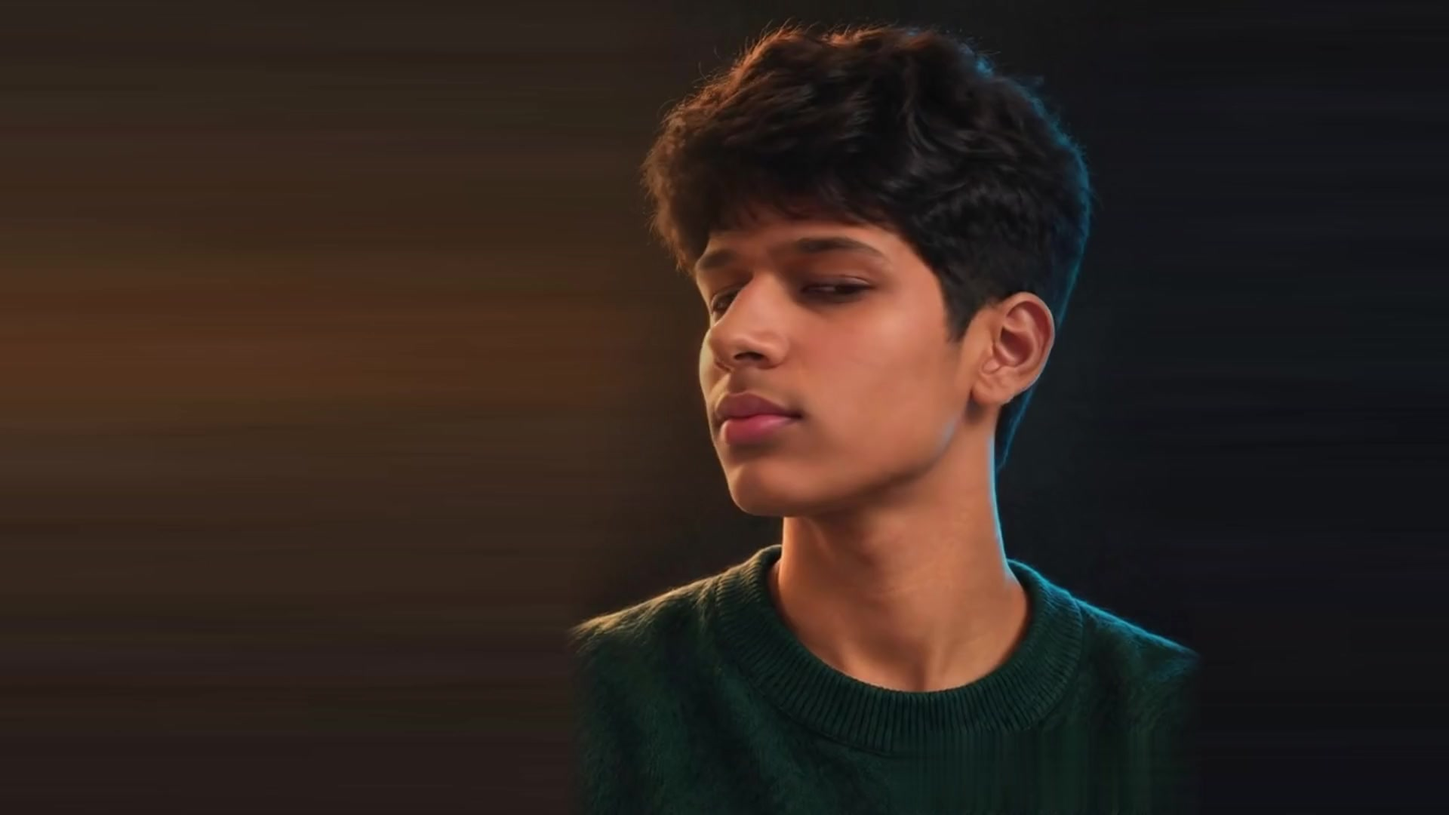
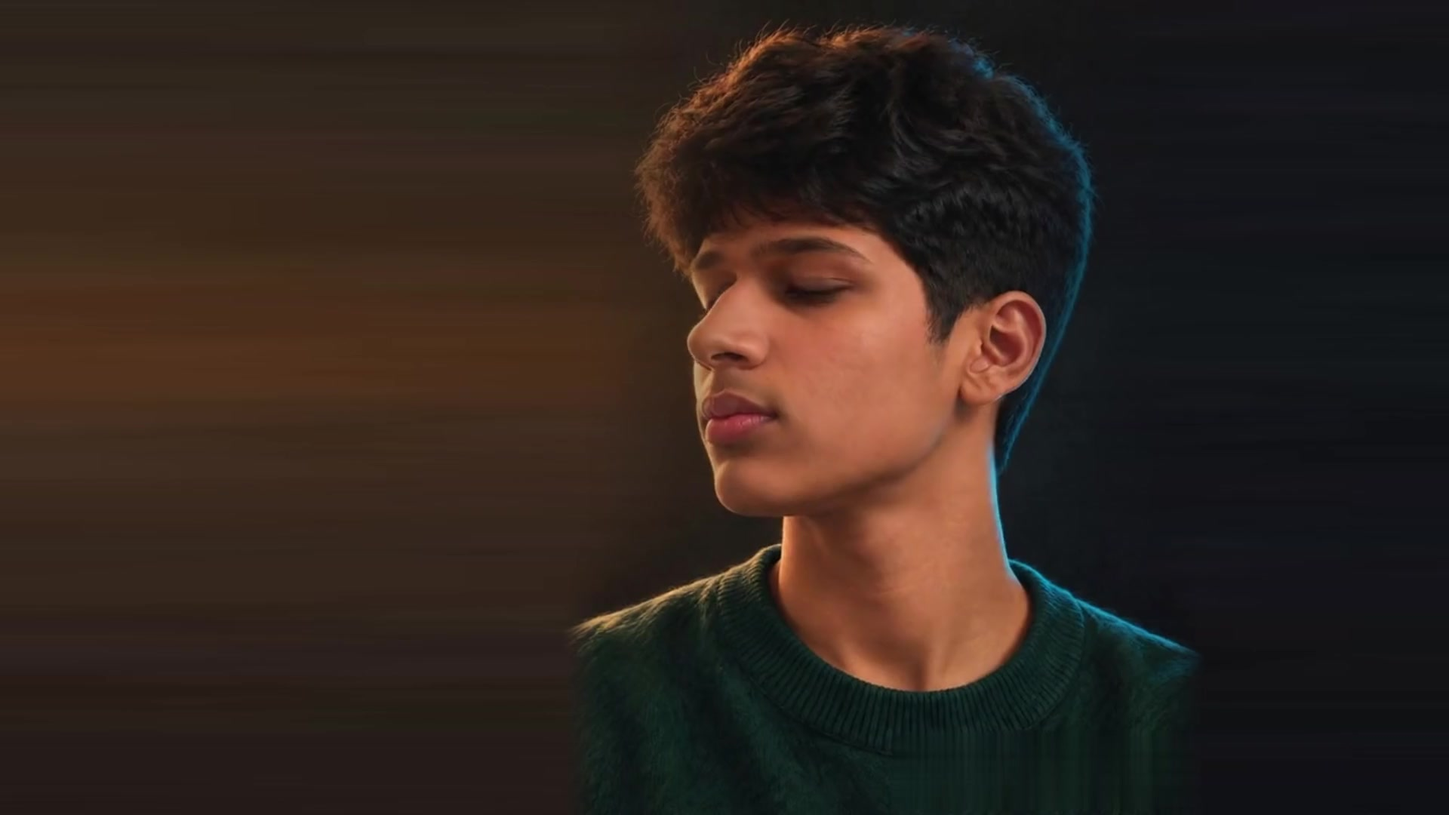
V22.3: toggle right of CONTACT (button pinned in original spot), darker-bluer skills island in dark mode, whole skill row toggles expander, 38-frame hero (every source frame) for sharper motion

diff --git a/index.html b/index.html
@@ -18,7 +18,7 @@
   <link rel="preconnect" href="https://fonts.googleapis.com">
   <link rel="preconnect" href="https://fonts.gstatic.com" crossorigin>
   <link href="https://fonts.googleapis.com/css2?family=Archivo+Black&family=IBM+Plex+Mono:wght@400;500&family=Inter:wght@400;500&display=swap" rel="stylesheet">
-  <link rel="stylesheet" href="style.css?v=22.2">
+  <link rel="stylesheet" href="style.css?v=22.3">
 
   <!-- Tailwind Play CDN, pinned 3.4.16 (Prompt 27): compiles the utility
        classes in the browser at runtime, so this page needs internet for
@@ -111,13 +111,14 @@
         <li><a href="#contact" class="navbar__link font-mono text-[0.6875rem] font-medium tracking-[0.1em] uppercase text-muted py-[0.3em] px-[0.5em] transition-colors duration-150 ease-[cubic-bezier(0.16,1,0.3,1)] hover:text-ink focus-visible:text-ink focus-visible:outline-none">Contact</a></li>
       </ul>
       <div class="navbar__actions flex items-center gap-2">
+
+
+        <a href="index.html#contact" class="btn btn--outline navbar__cta hidden md:inline-flex">Contact</a>
+
         <button type="button" id="theme-toggle" class="theme-toggle" aria-label="Switch to light mode" aria-pressed="true">
           <svg class="theme-toggle__icon theme-toggle__sun" viewBox="0 0 24 24" fill="none" stroke="currentColor" stroke-width="1.5" stroke-linecap="round" aria-hidden="true"><circle cx="12" cy="12" r="4"/><path d="M12 2v2M12 20v2M4.93 4.93l1.41 1.41M17.66 17.66l1.41 1.41M2 12h2M20 12h2M4.93 19.07l1.41-1.41M17.66 6.34l1.41-1.41"/></svg>
           <svg class="theme-toggle__icon theme-toggle__moon" viewBox="0 0 24 24" fill="none" stroke="currentColor" stroke-width="1.5" stroke-linecap="round" stroke-linejoin="round" aria-hidden="true"><path d="M21 12.79A9 9 0 1 1 11.21 3 7 7 0 0 0 21 12.79z"/></svg>
         </button>
-
-
-        <a href="index.html#contact" class="btn btn--outline navbar__cta hidden md:inline-flex">Contact</a>
       </div>
     </nav>
   </header>
@@ -134,7 +135,7 @@
          <picture> picks the set: wide screens (min-aspect-ratio 1/1) download
          only the 16:9 landscape set (face right of centre, headline over the
          dark left half); phones and portrait tablets download only the 4:5 set. -->
-    <section class="hero-stage" id="hero" aria-labelledby="hero-heading" style="--frame-count: 30">
+    <section class="hero-stage" id="hero" aria-labelledby="hero-heading" style="--frame-count: 38">
       <!-- FACE-CLIP ACTIVE: script.js swaps the 12-frame stack for the
            scroll-scrubbed AI clip (assets/video/face-turn.mp4). The frames
            stay in the DOM as the no-JS / reduced-motion / pre-load fallback. -->
@@ -144,94 +145,118 @@
              --frame-count; the CSS slices the scroll range from those two. -->
         <div class="hero-bg">
           <picture class="portrait-frame portrait-frame--first" style="--i: 1">
-            <img src="assets/frames/frame01.jpg?v=22.2" alt="" aria-hidden="true" width="1920" height="1080" fetchpriority="high">
+            <img src="assets/frames/frame01.jpg?v=22.3" alt="" aria-hidden="true" width="1920" height="1080" fetchpriority="high">
           </picture>
           <picture class="portrait-frame" style="--i: 2">
-            <img src="assets/frames/frame02.jpg?v=22.2" alt="" aria-hidden="true" width="1920" height="1080" decoding="async">
+            <img src="assets/frames/frame02.jpg?v=22.3" alt="" aria-hidden="true" width="1920" height="1080" decoding="async">
           </picture>
           <picture class="portrait-frame" style="--i: 3">
-            <img src="assets/frames/frame03.jpg?v=22.2" alt="" aria-hidden="true" width="1920" height="1080" decoding="async">
+            <img src="assets/frames/frame03.jpg?v=22.3" alt="" aria-hidden="true" width="1920" height="1080" decoding="async">
           </picture>
           <picture class="portrait-frame" style="--i: 4">
-            <img src="assets/frames/frame04.jpg?v=22.2" alt="" aria-hidden="true" width="1920" height="1080" decoding="async">
+            <img src="assets/frames/frame04.jpg?v=22.3" alt="" aria-hidden="true" width="1920" height="1080" decoding="async">
           </picture>
           <picture class="portrait-frame" style="--i: 5">
-            <img src="assets/frames/frame05.jpg?v=22.2" alt="" aria-hidden="true" width="1920" height="1080" decoding="async">
+            <img src="assets/frames/frame05.jpg?v=22.3" alt="" aria-hidden="true" width="1920" height="1080" decoding="async">
           </picture>
           <picture class="portrait-frame" style="--i: 6">
-            <img src="assets/frames/frame06.jpg?v=22.2" alt="" aria-hidden="true" width="1920" height="1080" decoding="async">
+            <img src="assets/frames/frame06.jpg?v=22.3" alt="" aria-hidden="true" width="1920" height="1080" decoding="async">
           </picture>
           <picture class="portrait-frame" style="--i: 7">
-            <img src="assets/frames/frame07.jpg?v=22.2" alt="" aria-hidden="true" width="1920" height="1080" decoding="async">
+            <img src="assets/frames/frame07.jpg?v=22.3" alt="" aria-hidden="true" width="1920" height="1080" decoding="async">
           </picture>
           <picture class="portrait-frame" style="--i: 8">
-            <img src="assets/frames/frame08.jpg?v=22.2" alt="" aria-hidden="true" width="1920" height="1080" decoding="async">
+            <img src="assets/frames/frame08.jpg?v=22.3" alt="" aria-hidden="true" width="1920" height="1080" decoding="async">
           </picture>
           <picture class="portrait-frame" style="--i: 9">
-            <img src="assets/frames/frame09.jpg?v=22.2" alt="" aria-hidden="true" width="1920" height="1080" decoding="async">
+            <img src="assets/frames/frame09.jpg?v=22.3" alt="" aria-hidden="true" width="1920" height="1080" decoding="async">
           </picture>
           <picture class="portrait-frame" style="--i: 10">
-            <img src="assets/frames/frame10.jpg?v=22.2" alt="" aria-hidden="true" width="1920" height="1080" decoding="async">
+            <img src="assets/frames/frame10.jpg?v=22.3" alt="" aria-hidden="true" width="1920" height="1080" decoding="async">
           </picture>
           <picture class="portrait-frame" style="--i: 11">
-            <img src="assets/frames/frame11.jpg?v=22.2" alt="" aria-hidden="true" width="1920" height="1080" decoding="async">
+            <img src="assets/frames/frame11.jpg?v=22.3" alt="" aria-hidden="true" width="1920" height="1080" decoding="async">
           </picture>
           <picture class="portrait-frame" style="--i: 12">
-            <img src="assets/frames/frame12.jpg?v=22.2" alt="" aria-hidden="true" width="1920" height="1080" decoding="async">
+            <img src="assets/frames/frame12.jpg?v=22.3" alt="" aria-hidden="true" width="1920" height="1080" decoding="async">
           </picture>
           <picture class="portrait-frame" style="--i: 13">
-            <img src="assets/frames/frame13.jpg?v=22.2" alt="" aria-hidden="true" width="1920" height="1080" decoding="async">
+            <img src="assets/frames/frame13.jpg?v=22.3" alt="" aria-hidden="true" width="1920" height="1080" decoding="async">
           </picture>
           <picture class="portrait-frame" style="--i: 14">
-            <img src="assets/frames/frame14.jpg?v=22.2" alt="" aria-hidden="true" width="1920" height="1080" decoding="async">
+            <img src="assets/frames/frame14.jpg?v=22.3" alt="" aria-hidden="true" width="1920" height="1080" decoding="async">
           </picture>
           <picture class="portrait-frame" style="--i: 15">
-            <img src="assets/frames/frame15.jpg?v=22.2" alt="" aria-hidden="true" width="1920" height="1080" decoding="async">
+            <img src="assets/frames/frame15.jpg?v=22.3" alt="" aria-hidden="true" width="1920" height="1080" decoding="async">
           </picture>
           <picture class="portrait-frame" style="--i: 16">
-            <img src="assets/frames/frame16.jpg?v=22.2" alt="" aria-hidden="true" width="1920" height="1080" decoding="async">
+            <img src="assets/frames/frame16.jpg?v=22.3" alt="" aria-hidden="true" width="1920" height="1080" decoding="async">
           </picture>
           <picture class="portrait-frame" style="--i: 17">
-            <img src="assets/frames/frame17.jpg?v=22.2" alt="" aria-hidden="true" width="1920" height="1080" decoding="async">
+            <img src="assets/frames/frame17.jpg?v=22.3" alt="" aria-hidden="true" width="1920" height="1080" decoding="async">
           </picture>
           <picture class="portrait-frame" style="--i: 18">
-            <img src="assets/frames/frame18.jpg?v=22.2" alt="" aria-hidden="true" width="1920" height="1080" decoding="async">
+            <img src="assets/frames/frame18.jpg?v=22.3" alt="" aria-hidden="true" width="1920" height="1080" decoding="async">
           </picture>
           <picture class="portrait-frame" style="--i: 19">
-            <img src="assets/frames/frame19.jpg?v=22.2" alt="" aria-hidden="true" width="1920" height="1080" decoding="async">
+            <img src="assets/frames/frame19.jpg?v=22.3" alt="" aria-hidden="true" width="1920" height="1080" decoding="async">
           </picture>
           <picture class="portrait-frame" style="--i: 20">
-            <img src="assets/frames/frame20.jpg?v=22.2" alt="" aria-hidden="true" width="1920" height="1080" decoding="async">
+            <img src="assets/frames/frame20.jpg?v=22.3" alt="" aria-hidden="true" width="1920" height="1080" decoding="async">
           </picture>
           <picture class="portrait-frame" style="--i: 21">
-            <img src="assets/frames/frame21.jpg?v=22.2" alt="" aria-hidden="true" width="1920" height="1080" decoding="async">
+            <img src="assets/frames/frame21.jpg?v=22.3" alt="" aria-hidden="true" width="1920" height="1080" decoding="async">
           </picture>
           <picture class="portrait-frame" style="--i: 22">
-            <img src="assets/frames/frame22.jpg?v=22.2" alt="" aria-hidden="true" width="1920" height="1080" decoding="async">
+            <img src="assets/frames/frame22.jpg?v=22.3" alt="" aria-hidden="true" width="1920" height="1080" decoding="async">
           </picture>
           <picture class="portrait-frame" style="--i: 23">
-            <img src="assets/frames/frame23.jpg?v=22.2" alt="" aria-hidden="true" width="1920" height="1080" decoding="async">
+            <img src="assets/frames/frame23.jpg?v=22.3" alt="" aria-hidden="true" width="1920" height="1080" decoding="async">
           </picture>
           <picture class="portrait-frame" style="--i: 24">
-            <img src="assets/frames/frame24.jpg?v=22.2" alt="" aria-hidden="true" width="1920" height="1080" decoding="async">
+            <img src="assets/frames/frame24.jpg?v=22.3" alt="" aria-hidden="true" width="1920" height="1080" decoding="async">
           </picture>
           <picture class="portrait-frame" style="--i: 25">
-            <img src="assets/frames/frame25.jpg?v=22.2" alt="" aria-hidden="true" width="1920" height="1080" decoding="async">
+            <img src="assets/frames/frame25.jpg?v=22.3" alt="" aria-hidden="true" width="1920" height="1080" decoding="async">
           </picture>
           <picture class="portrait-frame" style="--i: 26">
-            <img src="assets/frames/frame26.jpg?v=22.2" alt="" aria-hidden="true" width="1920" height="1080" decoding="async">
+            <img src="assets/frames/frame26.jpg?v=22.3" alt="" aria-hidden="true" width="1920" height="1080" decoding="async">
           </picture>
           <picture class="portrait-frame" style="--i: 27">
-            <img src="assets/frames/frame27.jpg?v=22.2" alt="" aria-hidden="true" width="1920" height="1080" decoding="async">
+            <img src="assets/frames/frame27.jpg?v=22.3" alt="" aria-hidden="true" width="1920" height="1080" decoding="async">
           </picture>
           <picture class="portrait-frame" style="--i: 28">
-            <img src="assets/frames/frame28.jpg?v=22.2" alt="" aria-hidden="true" width="1920" height="1080" decoding="async">
+            <img src="assets/frames/frame28.jpg?v=22.3" alt="" aria-hidden="true" width="1920" height="1080" decoding="async">
           </picture>
           <picture class="portrait-frame" style="--i: 29">
-            <img src="assets/frames/frame29.jpg?v=22.2" alt="" aria-hidden="true" width="1920" height="1080" decoding="async">
+            <img src="assets/frames/frame29.jpg?v=22.3" alt="" aria-hidden="true" width="1920" height="1080" decoding="async">
           </picture>
-          <picture class="portrait-frame portrait-frame--default" style="--i: 30">
-            <img src="assets/frames/frame30.jpg?v=22.2" alt="AI-generated portrait of Aditya Kulkarni" width="1920" height="1080" decoding="async">
+          <picture class="portrait-frame" style="--i: 30">
+            <img src="assets/frames/frame30.jpg?v=22.3" alt="" aria-hidden="true" width="1920" height="1080" decoding="async">
+          </picture>
+          <picture class="portrait-frame" style="--i: 31">
+            <img src="assets/frames/frame31.jpg?v=22.3" alt="" aria-hidden="true" width="1920" height="1080" decoding="async">
+          </picture>
+          <picture class="portrait-frame" style="--i: 32">
+            <img src="assets/frames/frame32.jpg?v=22.3" alt="" aria-hidden="true" width="1920" height="1080" decoding="async">
+          </picture>
+          <picture class="portrait-frame" style="--i: 33">
+            <img src="assets/frames/frame33.jpg?v=22.3" alt="" aria-hidden="true" width="1920" height="1080" decoding="async">
+          </picture>
+          <picture class="portrait-frame" style="--i: 34">
+            <img src="assets/frames/frame34.jpg?v=22.3" alt="" aria-hidden="true" width="1920" height="1080" decoding="async">
+          </picture>
+          <picture class="portrait-frame" style="--i: 35">
+            <img src="assets/frames/frame35.jpg?v=22.3" alt="" aria-hidden="true" width="1920" height="1080" decoding="async">
+          </picture>
+          <picture class="portrait-frame" style="--i: 36">
+            <img src="assets/frames/frame36.jpg?v=22.3" alt="" aria-hidden="true" width="1920" height="1080" decoding="async">
+          </picture>
+          <picture class="portrait-frame" style="--i: 37">
+            <img src="assets/frames/frame37.jpg?v=22.3" alt="" aria-hidden="true" width="1920" height="1080" decoding="async">
+          </picture>
+          <picture class="portrait-frame portrait-frame--default" style="--i: 38">
+            <img src="assets/frames/frame38.jpg?v=22.3" alt="AI-generated portrait of Aditya Kulkarni" width="1920" height="1080" decoding="async">
           </picture>
         </div>
         <!-- FLAT readability overlay above the frames, below the text.
@@ -493,6 +518,6 @@
   <script defer src="https://cdn.jsdelivr.net/npm/lenis@1.1.14/dist/lenis.min.js"></script>
   <script defer src="https://cdn.jsdelivr.net/npm/gsap@3.12.5/dist/gsap.min.js"></script>
   <script defer src="https://cdn.jsdelivr.net/npm/gsap@3.12.5/dist/ScrollTrigger.min.js"></script>
-  <script src="script.js?v=22.2"></script>
+  <script src="script.js?v=22.3"></script>
 </body>
 </html>

diff --git a/projects.html b/projects.html
@@ -18,7 +18,7 @@
   <link rel="preconnect" href="https://fonts.googleapis.com">
   <link rel="preconnect" href="https://fonts.gstatic.com" crossorigin>
   <link href="https://fonts.googleapis.com/css2?family=Archivo+Black&family=IBM+Plex+Mono:wght@400;500&family=Inter:wght@400;500&display=swap" rel="stylesheet">
-  <link rel="stylesheet" href="style.css?v=22.2">
+  <link rel="stylesheet" href="style.css?v=22.3">
 
   <!-- Tailwind Play CDN, pinned 3.4.16 (Prompt 27): compiles the utility
        classes in the browser at runtime, so this page needs internet for
@@ -110,13 +110,14 @@
         <li><a href="#cp-pipeline" class="navbar__link font-mono text-[0.6875rem] font-medium tracking-[0.1em] uppercase text-muted py-[0.3em] px-[0.5em] transition-colors duration-150 ease-[cubic-bezier(0.16,1,0.3,1)] hover:text-ink focus-visible:text-ink focus-visible:outline-none">05 CP Pipeline</a></li>
       </ul>
       <div class="navbar__actions flex items-center gap-2">
+
+
+        <a href="index.html#contact" class="btn btn--outline navbar__cta hidden md:inline-flex">Contact</a>
+
         <button type="button" id="theme-toggle" class="theme-toggle" aria-label="Switch to light mode" aria-pressed="true">
           <svg class="theme-toggle__icon theme-toggle__sun" viewBox="0 0 24 24" fill="none" stroke="currentColor" stroke-width="1.5" stroke-linecap="round" aria-hidden="true"><circle cx="12" cy="12" r="4"/><path d="M12 2v2M12 20v2M4.93 4.93l1.41 1.41M17.66 17.66l1.41 1.41M2 12h2M20 12h2M4.93 19.07l1.41-1.41M17.66 6.34l1.41-1.41"/></svg>
           <svg class="theme-toggle__icon theme-toggle__moon" viewBox="0 0 24 24" fill="none" stroke="currentColor" stroke-width="1.5" stroke-linecap="round" stroke-linejoin="round" aria-hidden="true"><path d="M21 12.79A9 9 0 1 1 11.21 3 7 7 0 0 0 21 12.79z"/></svg>
         </button>
-
-
-        <a href="index.html#contact" class="btn btn--outline navbar__cta hidden md:inline-flex">Contact</a>
       </div>
     </nav>
   </header>
@@ -358,6 +359,6 @@
   <script defer src="https://cdn.jsdelivr.net/npm/lenis@1.1.14/dist/lenis.min.js"></script>
   <script defer src="https://cdn.jsdelivr.net/npm/gsap@3.12.5/dist/gsap.min.js"></script>
   <script defer src="https://cdn.jsdelivr.net/npm/gsap@3.12.5/dist/ScrollTrigger.min.js"></script>
-  <script src="script.js?v=22.2"></script>
+  <script src="script.js?v=22.3"></script>
 </body>
 </html>

diff --git a/academics.html b/academics.html
@@ -18,7 +18,7 @@
   <link rel="preconnect" href="https://fonts.googleapis.com">
   <link rel="preconnect" href="https://fonts.gstatic.com" crossorigin>
   <link href="https://fonts.googleapis.com/css2?family=Archivo+Black&family=IBM+Plex+Mono:wght@400;500&family=Inter:wght@400;500&display=swap" rel="stylesheet">
-  <link rel="stylesheet" href="style.css?v=22.2">
+  <link rel="stylesheet" href="style.css?v=22.3">
 
   <!-- Tailwind Play CDN, pinned 3.4.16 (Prompt 27): compiles the utility
        classes in the browser at runtime, so this page needs internet for
@@ -110,13 +110,14 @@
         <li><a href="#learning" class="navbar__link font-mono text-[0.6875rem] font-medium tracking-[0.1em] uppercase text-muted py-[0.3em] px-[0.5em] transition-colors duration-150 ease-[cubic-bezier(0.16,1,0.3,1)] hover:text-ink focus-visible:text-ink focus-visible:outline-none">Learning</a></li>
       </ul>
       <div class="navbar__actions flex items-center gap-2">
+
+
+        <a href="index.html#contact" class="btn btn--outline navbar__cta hidden md:inline-flex">Contact</a>
+
         <button type="button" id="theme-toggle" class="theme-toggle" aria-label="Switch to light mode" aria-pressed="true">
           <svg class="theme-toggle__icon theme-toggle__sun" viewBox="0 0 24 24" fill="none" stroke="currentColor" stroke-width="1.5" stroke-linecap="round" aria-hidden="true"><circle cx="12" cy="12" r="4"/><path d="M12 2v2M12 20v2M4.93 4.93l1.41 1.41M17.66 17.66l1.41 1.41M2 12h2M20 12h2M4.93 19.07l1.41-1.41M17.66 6.34l1.41-1.41"/></svg>
           <svg class="theme-toggle__icon theme-toggle__moon" viewBox="0 0 24 24" fill="none" stroke="currentColor" stroke-width="1.5" stroke-linecap="round" stroke-linejoin="round" aria-hidden="true"><path d="M21 12.79A9 9 0 1 1 11.21 3 7 7 0 0 0 21 12.79z"/></svg>
         </button>
-
-
-        <a href="index.html#contact" class="btn btn--outline navbar__cta hidden md:inline-flex">Contact</a>
       </div>
     </nav>
   </header>
@@ -347,6 +348,6 @@
   <script defer src="https://cdn.jsdelivr.net/npm/lenis@1.1.14/dist/lenis.min.js"></script>
   <script defer src="https://cdn.jsdelivr.net/npm/gsap@3.12.5/dist/gsap.min.js"></script>
   <script defer src="https://cdn.jsdelivr.net/npm/gsap@3.12.5/dist/ScrollTrigger.min.js"></script>
-  <script src="script.js?v=22.2"></script>
+  <script src="script.js?v=22.3"></script>
 </body>
 </html>

diff --git a/community.html b/community.html
@@ -18,7 +18,7 @@
   <link rel="preconnect" href="https://fonts.googleapis.com">
   <link rel="preconnect" href="https://fonts.gstatic.com" crossorigin>
   <link href="https://fonts.googleapis.com/css2?family=Archivo+Black&family=IBM+Plex+Mono:wght@400;500&family=Inter:wght@400;500&display=swap" rel="stylesheet">
-  <link rel="stylesheet" href="style.css?v=22.2">
+  <link rel="stylesheet" href="style.css?v=22.3">
 
   <!-- Tailwind Play CDN, pinned 3.4.16 (Prompt 27): compiles the utility
        classes in the browser at runtime, so this page needs internet for
@@ -110,13 +110,14 @@
         <li><a href="#connect" class="navbar__link font-mono text-[0.6875rem] font-medium tracking-[0.1em] uppercase text-muted py-[0.3em] px-[0.5em] transition-colors duration-150 ease-[cubic-bezier(0.16,1,0.3,1)] hover:text-ink focus-visible:text-ink focus-visible:outline-none">Connect</a></li>
       </ul>
       <div class="navbar__actions flex items-center gap-2">
+
+
+        <a href="index.html#contact" class="btn btn--outline navbar__cta hidden md:inline-flex">Contact</a>
+
         <button type="button" id="theme-toggle" class="theme-toggle" aria-label="Switch to light mode" aria-pressed="true">
           <svg class="theme-toggle__icon theme-toggle__sun" viewBox="0 0 24 24" fill="none" stroke="currentColor" stroke-width="1.5" stroke-linecap="round" aria-hidden="true"><circle cx="12" cy="12" r="4"/><path d="M12 2v2M12 20v2M4.93 4.93l1.41 1.41M17.66 17.66l1.41 1.41M2 12h2M20 12h2M4.93 19.07l1.41-1.41M17.66 6.34l1.41-1.41"/></svg>
           <svg class="theme-toggle__icon theme-toggle__moon" viewBox="0 0 24 24" fill="none" stroke="currentColor" stroke-width="1.5" stroke-linecap="round" stroke-linejoin="round" aria-hidden="true"><path d="M21 12.79A9 9 0 1 1 11.21 3 7 7 0 0 0 21 12.79z"/></svg>
         </button>
-
-
-        <a href="index.html#contact" class="btn btn--outline navbar__cta hidden md:inline-flex">Contact</a>
       </div>
     </nav>
   </header>
@@ -341,6 +342,6 @@
   <script defer src="https://cdn.jsdelivr.net/npm/lenis@1.1.14/dist/lenis.min.js"></script>
   <script defer src="https://cdn.jsdelivr.net/npm/gsap@3.12.5/dist/gsap.min.js"></script>
   <script defer src="https://cdn.jsdelivr.net/npm/gsap@3.12.5/dist/ScrollTrigger.min.js"></script>
-  <script src="script.js?v=22.2"></script>
+  <script src="script.js?v=22.3"></script>
 </body>
 </html>

diff --git a/beyond.html b/beyond.html
@@ -18,7 +18,7 @@
   <link rel="preconnect" href="https://fonts.googleapis.com">
   <link rel="preconnect" href="https://fonts.gstatic.com" crossorigin>
   <link href="https://fonts.googleapis.com/css2?family=Archivo+Black&family=IBM+Plex+Mono:wght@400;500&family=Inter:wght@400;500&display=swap" rel="stylesheet">
-  <link rel="stylesheet" href="style.css?v=22.2">
+  <link rel="stylesheet" href="style.css?v=22.3">
 
   <!-- Tailwind Play CDN, pinned 3.4.16 (Prompt 27): compiles the utility
        classes in the browser at runtime, so this page needs internet for
@@ -110,13 +110,14 @@
         <li><a href="#music" class="navbar__link font-mono text-[0.6875rem] font-medium tracking-[0.1em] uppercase text-muted py-[0.3em] px-[0.5em] transition-colors duration-150 ease-[cubic-bezier(0.16,1,0.3,1)] hover:text-ink focus-visible:text-ink focus-visible:outline-none">Music</a></li>
       </ul>
       <div class="navbar__actions flex items-center gap-2">
+
+
+        <a href="index.html#contact" class="btn btn--outline navbar__cta hidden md:inline-flex">Contact</a>
+
         <button type="button" id="theme-toggle" class="theme-toggle" aria-label="Switch to light mode" aria-pressed="true">
           <svg class="theme-toggle__icon theme-toggle__sun" viewBox="0 0 24 24" fill="none" stroke="currentColor" stroke-width="1.5" stroke-linecap="round" aria-hidden="true"><circle cx="12" cy="12" r="4"/><path d="M12 2v2M12 20v2M4.93 4.93l1.41 1.41M17.66 17.66l1.41 1.41M2 12h2M20 12h2M4.93 19.07l1.41-1.41M17.66 6.34l1.41-1.41"/></svg>
           <svg class="theme-toggle__icon theme-toggle__moon" viewBox="0 0 24 24" fill="none" stroke="currentColor" stroke-width="1.5" stroke-linecap="round" stroke-linejoin="round" aria-hidden="true"><path d="M21 12.79A9 9 0 1 1 11.21 3 7 7 0 0 0 21 12.79z"/></svg>
         </button>
-
-
-        <a href="index.html#contact" class="btn btn--outline navbar__cta hidden md:inline-flex">Contact</a>
       </div>
     </nav>
   </header>
@@ -377,6 +378,6 @@
   <script defer src="https://cdn.jsdelivr.net/npm/lenis@1.1.14/dist/lenis.min.js"></script>
   <script defer src="https://cdn.jsdelivr.net/npm/gsap@3.12.5/dist/gsap.min.js"></script>
   <script defer src="https://cdn.jsdelivr.net/npm/gsap@3.12.5/dist/ScrollTrigger.min.js"></script>
-  <script src="script.js?v=22.2"></script>
+  <script src="script.js?v=22.3"></script>
 </body>
 </html>

diff --git a/style.css b/style.css
@@ -2564,6 +2564,10 @@ html.no-view-timeline .prow.is-flat .prow__inner { transform: none; opacity: 1; 
 :root[data-theme="dark"] .hover\:text-ink:hover { color: var(--clr-text) !important; }
 :root[data-theme="dark"] .focus-visible\:text-ink:focus-visible { color: var(--clr-text) !important; }
 
+/* Dark mode: the lavender skills island shifts slightly darker and bluer
+   (his call - light mode keeps the original #968ADF). The island text
+   palette stays as-is. */
+:root[data-theme="dark"] .skills.bg-accent { background-color: #7874D3; }
 /* The lavender skills island keeps its light palette in dark mode. */
 :root[data-theme="dark"] .skills {
   --clr-text: #1B1B1B;
@@ -2626,8 +2630,15 @@ html.no-view-timeline .prow.is-flat .prow__inner { transform: none; opacity: 1; 
   background-color: #D9D7D3; color: #0E0E11;
 }
 
-/* Theme toggle button (top navbar, right of the CONTACT link). */
+/* Theme toggle button (top navbar, far right, right of the CONTACT button).
+   The negative right margin is exactly the toggle's width + gap, so the
+   CONTACT button keeps its original spot and the toggle extends past it.
+   Desktop only - on mobile the CTA is hidden and the toggle is the only
+   actions child, so no margin there. */
 .navbar__actions { display: flex; align-items: center; gap: 0.5rem; }
+@media (min-width: 768px) {
+  .navbar__actions { margin-right: -2.5rem; }
+}
 .theme-toggle {
   display: inline-flex; align-items: center; justify-content: center;
   width: 2rem; height: 2rem; padding: 0; flex: none;

diff --git a/script.js b/script.js
@@ -624,7 +624,12 @@ window._sectionJump = function _sectionJump(target) {
   document.querySelectorAll('.skill-row__plus').forEach(btn => {
     const detail = document.getElementById(btn.getAttribute('aria-controls'));
     if (!detail) return;
-    btn.addEventListener('click', () => {
+    /* V22.3: the whole row toggles, not just the plus (the plus stays the
+       visual indicator). Clicks on the plus bubble up to the row, so one
+       listener handles both. The row inherits the plus's cursor. */
+    const row = btn.closest('.skill-row') || btn;
+    row.style.cursor = getComputedStyle(btn).cursor;
+    row.addEventListener('click', () => {
       const open = btn.getAttribute('aria-expanded') === 'true';
       btn.setAttribute('aria-expanded', String(!open));
       detail.hidden = open;
